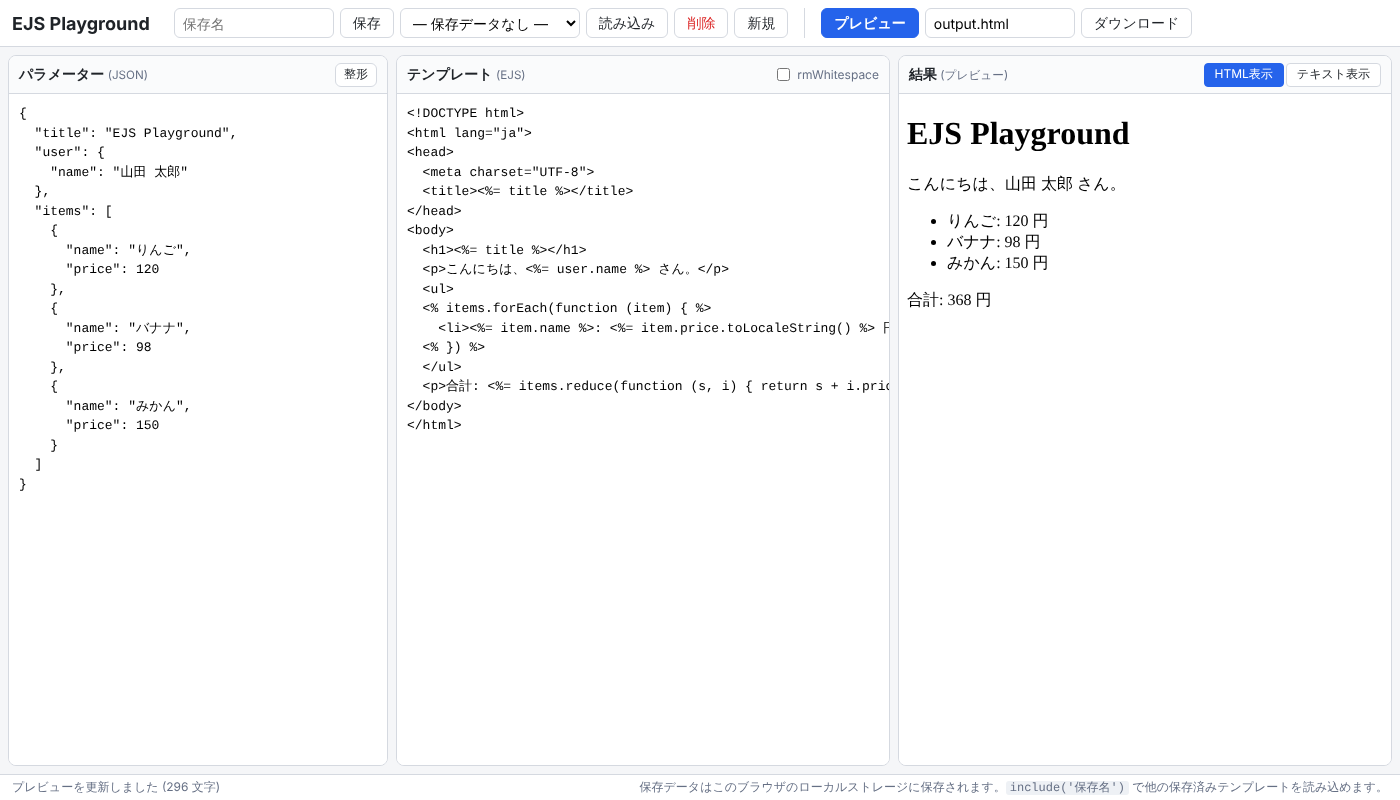
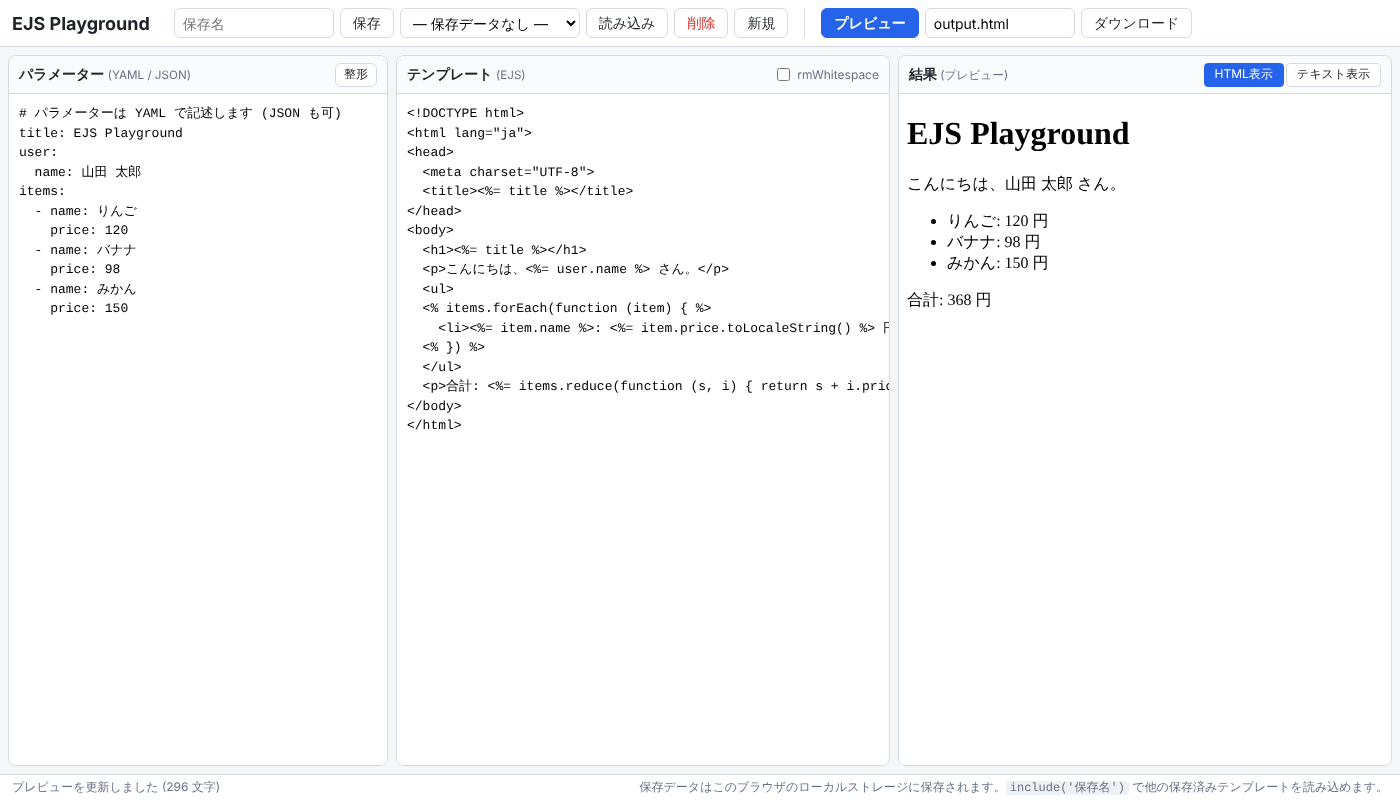
Accept parameters in YAML (JSON still supported)
Claude-Session: https://claude.ai/code/session_015nquHi3ZmVcq4QcpECdjmy

Changed region(s): [[0.0307, 0.125, 0.2457, 0.4375], [0.0307, 0.5, 0.1229, 0.5312]]

diff --git a/vendor/js-yaml.min.js b/vendor/js-yaml.min.js
@@ -1,0 +1,2 @@
+!function(e,t){"object"==typeof exports&&"undefined"!=typeof module?t(exports):"function"==typeof define&&define.amd?define(["exports"],t):t((e="undefined"!=typeof globalThis?globalThis:e||self).jsyaml={})}(this,function(e){"use strict";function t(e){return e&&e.__esModule&&Object.prototype.hasOwnProperty.call(e,"default")?e.default:e}var n,r,i,o,a,l,u,c,s,p,f,d,h,m,g,y,v,b,A,k,w,x,C,S,I,T,O,j,M,F,E,N,L,_,D,U,q,Y,K,R,H,P,B,W,$={},G={},Z={};function V(){if(n)return Z;function e(t){return(e="function"==typeof Symbol&&"symbol"==typeof Symbol.iterator?function(e){return typeof e}:function(e){return e&&"function"==typeof Symbol&&e.constructor===Symbol&&e!==Symbol.prototype?"symbol":typeof e})(t)}function t(e){return null==e}return n=1,Z.isNothing=t,Z.isObject=function(t){return"object"===e(t)&&null!==t},Z.toArray=function(e){return Array.isArray(e)?e:t(e)?[]:[e]},Z.repeat=function(e,t){for(var n="",r=0;r<t;r+=1)n+=e;return n},Z.isNegativeZero=function(e){return 0===e&&Number.NEGATIVE_INFINITY===1/e},Z.extend=function(e,t){if(t)for(var n=Object.keys(t),r=0,i=n.length;r<i;r+=1){var o=n[r];e[o]=t[o]}return e},Z}function J(){if(i)return r;function e(e,t){var n="",r=e.reason||"(unknown reason)";return e.mark?(e.mark.name&&(n+='in "'+e.mark.name+'" '),n+="("+(e.mark.line+1)+":"+(e.mark.column+1)+")",!t&&e.mark.snippet&&(n+="\n\n"+e.mark.snippet),r+" "+n):r}function t(t,n){Error.call(this),this.name="YAMLException",this.reason=t,this.mark=n,this.message=e(this,!1),Error.captureStackTrace?Error.captureStackTrace(this,this.constructor):this.stack=(new Error).stack||""}return i=1,t.prototype=Object.create(Error.prototype),t.prototype.constructor=t,t.prototype.toString=function(t){return this.name+": "+e(this,t)},r=t}function z(){if(u)return l;u=1;var e=J(),t=["kind","multi","resolve","construct","instanceOf","predicate","represent","representName","defaultStyle","styleAliases"],n=["scalar","sequence","mapping"];return l=function(r,i){var o,a;if(i=i||{},Object.keys(i).forEach(function(n){if(-1===t.indexOf(n))throw new e('Unknown option "'+n+'" is met in definition of "'+r+'" YAML type.')}),this.options=i,this.tag=r,this.kind=i.kind||null,this.resolve=i.resolve||function(){return!0},this.construct=i.construct||function(e){return e},this.instanceOf=i.instanceOf||null,this.predicate=i.predicate||null,this.represent=i.represent||null,this.representName=i.representName||null,this.defaultStyle=i.defaultStyle||null,this.multi=i.multi||!1,this.styleAliases=(o=i.styleAliases||null,a={},null!==o&&Object.keys(o).forEach(function(e){o[e].forEach(function(t){a[String(t)]=e})}),a),-1===n.indexOf(this.kind))throw new e('Unknown kind "'+this.kind+'" is specified for "'+r+'" YAML type.')}}function Q(){if(s)return c;s=1;var e=J(),t=z();function n(e,t){var n=[];return e[t].forEach(function(e){var t=n.length;n.forEach(function(n,r){n.tag===e.tag&&n.kind===e.kind&&n.multi===e.multi&&(t=r)}),n[t]=e}),n}function r(e){return this.extend(e)}return r.prototype.extend=function(i){var o=[],a=[];if(i instanceof t)a.push(i);else if(Array.isArray(i))a=a.concat(i);else{if(!i||!Array.isArray(i.implicit)&&!Array.isArray(i.explicit))throw new e("Schema.extend argument should be a Type, [ Type ], or a schema definition ({ implicit: [...], explicit: [...] })");i.implicit&&(o=o.concat(i.implicit)),i.explicit&&(a=a.concat(i.explicit))}o.forEach(function(n){if(!(n instanceof t))throw new e("Specified list of YAML types (or a single Type object) contains a non-Type object.");if(n.loadKind&&"scalar"!==n.loadKind)throw new e("There is a non-scalar type in the implicit list of a schema. Implicit resolving of such types is not supported.");if(n.multi)throw new e("There is a multi type in the implicit list of a schema. Multi tags can only be listed as explicit.")}),a.forEach(function(n){if(!(n instanceof t))throw new e("Specified list of YAML types (or a single Type object) contains a non-Type object.")});var l=Object.create(r.prototype);return l.implicit=(this.implicit||[]).concat(o),l.explicit=(this.explicit||[]).concat(a),l.compiledImplicit=n(l,"implicit"),l.compiledExplicit=n(l,"explicit"),l.compiledTypeMap=function(){var e={scalar:{},sequence:{},mapping:{},fallback:{},multi:{scalar:[],sequence:[],mapping:[],fallback:[]}};function t(t){t.multi?(e.multi[t.kind].push(t),e.multi.fallback.push(t)):e[t.kind][t.tag]=e.fallback[t.tag]=t}for(var n=0,r=arguments.length;n<r;n+=1)arguments[n].forEach(t);return e}(l.compiledImplicit,l.compiledExplicit),l},c=r}function X(){if(f)return p;f=1;var e=z();return p=new e("tag:yaml.org,2002:str",{kind:"scalar",construct:function(e){return null!==e?e:""}})}function ee(){if(h)return d;h=1;var e=z();return d=new e("tag:yaml.org,2002:seq",{kind:"sequence",construct:function(e){return null!==e?e:[]}})}function te(){if(g)return m;g=1;var e=z();return m=new e("tag:yaml.org,2002:map",{kind:"mapping",construct:function(e){return null!==e?e:{}}})}function ne(){if(v)return y;v=1;var e=Q();return y=new e({explicit:[X(),ee(),te()]})}function re(){if(A)return b;A=1;var e=z();return b=new e("tag:yaml.org,2002:null",{kind:"scalar",resolve:function(e){if(null===e)return!0;var t=e.length;return 1===t&&"~"===e||4===t&&("null"===e||"Null"===e||"NULL"===e)},construct:function(){return null},predicate:function(e){return null===e},represent:{canonical:function(){return"~"},lowercase:function(){return"null"},uppercase:function(){return"NULL"},camelcase:function(){return"Null"},empty:function(){return""}},defaultStyle:"lowercase"})}function ie(){if(w)return k;w=1;var e=z();return k=new e("tag:yaml.org,2002:bool",{kind:"scalar",resolve:function(e){if(null===e)return!1;var t=e.length;return 4===t&&("true"===e||"True"===e||"TRUE"===e)||5===t&&("false"===e||"False"===e||"FALSE"===e)},construct:function(e){return"true"===e||"True"===e||"TRUE"===e},predicate:function(e){return"[object Boolean]"===Object.prototype.toString.call(e)},represent:{lowercase:function(e){return e?"true":"false"},uppercase:function(e){return e?"TRUE":"FALSE"},camelcase:function(e){return e?"True":"False"}},defaultStyle:"lowercase"})}function oe(){if(C)return x;C=1;var e=V(),t=z();function n(e){return e>=48&&e<=57||e>=65&&e<=70||e>=97&&e<=102}function r(e){return e>=48&&e<=55}function i(e){return e>=48&&e<=57}function o(e){var t=e,n=1,r=t[0];if("-"!==r&&"+"!==r||("-"===r&&(n=-1),r=(t=t.slice(1))[0]),"0"===t)return 0;if("0"===r){if("b"===t[1])return n*parseInt(t.slice(2),2);if("x"===t[1])return n*parseInt(t.slice(2),16);if("o"===t[1])return n*parseInt(t.slice(2),8)}return n*parseInt(t,10)}return x=new t("tag:yaml.org,2002:int",{kind:"scalar",resolve:function(e){if(null===e)return!1;var t=e.length,a=0,l=!1;if(!t)return!1;var u=e[a];if("-"!==u&&"+"!==u||(u=e[++a]),"0"===u){if(a+1===t)return!0;if("b"===(u=e[++a])){for(a++;a<t;a++){if("0"!==(u=e[a])&&"1"!==u)return!1;l=!0}return l&&isFinite(o(e))}if("x"===u){for(a++;a<t;a++){if(!n(e.charCodeAt(a)))return!1;l=!0}return l&&isFinite(o(e))}if("o"===u){for(a++;a<t;a++){if(!r(e.charCodeAt(a)))return!1;l=!0}return l&&isFinite(o(e))}}for(;a<t;a++){if(!i(e.charCodeAt(a)))return!1;l=!0}return!!l&&isFinite(o(e))},construct:function(e){return o(e)},predicate:function(t){return"[object Number]"===Object.prototype.toString.call(t)&&t%1==0&&!e.isNegativeZero(t)},represent:{binary:function(e){return e>=0?"0b"+e.toString(2):"-0b"+e.toString(2).slice(1)},octal:function(e){return e>=0?"0o"+e.toString(8):"-0o"+e.toString(8).slice(1)},decimal:function(e){return e.toString(10)},hexadecimal:function(e){return e>=0?"0x"+e.toString(16).toUpperCase():"-0x"+e.toString(16).toUpperCase().slice(1)}},defaultStyle:"decimal",styleAliases:{binary:[2,"bin"],octal:[8,"oct"],decimal:[10,"dec"],hexadecimal:[16,"hex"]}})}function ae(){if(I)return S;I=1;var e=V(),t=z(),n=new RegExp("^(?:[-+]?(?:[0-9]+)(?:\\.[0-9]*)?(?:[eE][-+]?[0-9]+)?|\\.[0-9]+(?:[eE][-+]?[0-9]+)?|[-+]?\\.(?:inf|Inf|INF)|\\.(?:nan|NaN|NAN))$"),r=new RegExp("^(?:[-+]?\\.(?:inf|Inf|INF)|\\.(?:nan|NaN|NAN))$");var i=/^[-+]?[0-9]+e/;return S=new t("tag:yaml.org,2002:float",{kind:"scalar",resolve:function(e){return null!==e&&(!!n.test(e)&&(!!isFinite(parseFloat(e,10))||r.test(e)))},construct:function(e){var t=e.toLowerCase(),n="-"===t[0]?-1:1;return"+-".indexOf(t[0])>=0&&(t=t.slice(1)),".inf"===t?1===n?Number.POSITIVE_INFINITY:Number.NEGATIVE_INFINITY:".nan"===t?NaN:n*parseFloat(t,10)},predicate:function(t){return"[object Number]"===Object.prototype.toString.call(t)&&(t%1!=0||e.isNegativeZero(t))},represent:function(t,n){if(isNaN(t))switch(n){case"lowercase":return".nan";case"uppercase":return".NAN";case"camelcase":return".NaN"}else if(Number.POSITIVE_INFINITY===t)switch(n){case"lowercase":return".inf";case"uppercase":return".INF";case"camelcase":return".Inf"}else if(Number.NEGATIVE_INFINITY===t)switch(n){case"lowercase":return"-.inf";case"uppercase":return"-.INF";case"camelcase":return"-.Inf"}else if(e.isNegativeZero(t))return"-0.0";var r=t.toString(10);return i.test(r)?r.replace("e",".e"):r},defaultStyle:"lowercase"})}function le(){return O?T:(O=1,T=ne().extend({implicit:[re(),ie(),oe(),ae()]}))}function ue(){return M?j:(M=1,j=le())}function ce(){if(E)return F;E=1;var e=z(),t=new RegExp("^([0-9][0-9][0-9][0-9])-([0-9][0-9])-([0-9][0-9])$"),n=new RegExp("^([0-9][0-9][0-9][0-9])-([0-9][0-9]?)-([0-9][0-9]?)(?:[Tt]|[ \\t]+)([0-9][0-9]?):([0-9][0-9]):([0-9][0-9])(?:\\.([0-9]*))?(?:[ \\t]*(Z|([-+])([0-9][0-9]?)(?::([0-9][0-9]))?))?$");return F=new e("tag:yaml.org,2002:timestamp",{kind:"scalar",resolve:function(e){return null!==e&&(null!==t.exec(e)||null!==n.exec(e))},construct:function(e){var r=0,i=null,o=t.exec(e);if(null===o&&(o=n.exec(e)),null===o)throw new Error("Date resolve error");var a=+o[1],l=+o[2]-1,u=+o[3];if(!o[4])return new Date(Date.UTC(a,l,u));var c=+o[4],s=+o[5],p=+o[6];if(o[7]){for(r=o[7].slice(0,3);r.length<3;)r+="0";r=+r}o[9]&&(i=6e4*(60*+o[10]+ +(o[11]||0)),"-"===o[9]&&(i=-i));var f=new Date(Date.UTC(a,l,u,c,s,p,r));return i&&f.setTime(f.getTime()-i),f},instanceOf:Date,represent:function(e){return e.toISOString()}})}function se(){if(L)return N;L=1;var e=z();return N=new e("tag:yaml.org,2002:merge",{kind:"scalar",resolve:function(e){return"<<"===e||null===e}})}function pe(){if(D)return _;D=1;var e=z(),t="ABCDEFGHIJKLMNOPQRSTUVWXYZabcdefghijklmnopqrstuvwxyz0123456789+/=\n\r";return _=new e("tag:yaml.org,2002:binary",{kind:"scalar",resolve:function(e){if(null===e)return!1;for(var n=0,r=e.length,i=t,o=0;o<r;o++){var a=i.indexOf(e.charAt(o));if(!(a>64)){if(a<0)return!1;n+=6}}return n%8==0},construct:function(e){for(var n=e.replace(/[\r\n=]/g,""),r=n.length,i=t,o=0,a=[],l=0;l<r;l++)l%4==0&&l&&(a.push(o>>16&255),a.push(o>>8&255),a.push(255&o)),o=o<<6|i.indexOf(n.charAt(l));var u=r%4*6;return 0===u?(a.push(o>>16&255),a.push(o>>8&255),a.push(255&o)):18===u?(a.push(o>>10&255),a.push(o>>2&255)):12===u&&a.push(o>>4&255),new Uint8Array(a)},predicate:function(e){return"[object Uint8Array]"===Object.prototype.toString.call(e)},represent:function(e){for(var n="",r=0,i=e.length,o=t,a=0;a<i;a++)a%3==0&&a&&(n+=o[r>>18&63],n+=o[r>>12&63],n+=o[r>>6&63],n+=o[63&r]),r=(r<<8)+e[a];var l=i%3;return 0===l?(n+=o[r>>18&63],n+=o[r>>12&63],n+=o[r>>6&63],n+=o[63&r]):2===l?(n+=o[r>>10&63],n+=o[r>>4&63],n+=o[r<<2&63],n+=o[64]):1===l&&(n+=o[r>>2&63],n+=o[r<<4&63],n+=o[64],n+=o[64]),n}})}function fe(){if(q)return U;q=1;var e=z(),t=Object.prototype.hasOwnProperty,n=Object.prototype.toString;return U=new e("tag:yaml.org,2002:omap",{kind:"sequence",resolve:function(e){if(null===e)return!0;for(var r={},i=e,o=0,a=i.length;o<a;o+=1){var l=i[o],u=!1;if("[object Object]"!==n.call(l))return!1;var c=void 0;for(c in l)if(t.call(l,c)){if(u)return!1;u=!0}if(!u)return!1;if(t.call(r,c))return!1;Object.defineProperty(r,c,{value:!0})}return!0},construct:function(e){return null!==e?e:[]}})}function de(){if(K)return Y;K=1;var e=z(),t=Object.prototype.toString;return Y=new e("tag:yaml.org,2002:pairs",{kind:"sequence",resolve:function(e){if(null===e)return!0;for(var n=e,r=new Array(n.length),i=0,o=n.length;i<o;i+=1){var a=n[i];if("[object Object]"!==t.call(a))return!1;var l=Object.keys(a);if(1!==l.length)return!1;r[i]=[l[0],a[l[0]]]}return!0},construct:function(e){if(null===e)return[];for(var t=e,n=new Array(t.length),r=0,i=t.length;r<i;r+=1){var o=t[r],a=Object.keys(o);n[r]=[a[0],o[a[0]]]}return n}})}function he(){if(H)return R;H=1;var e=z(),t=Object.prototype.hasOwnProperty;return R=new e("tag:yaml.org,2002:set",{kind:"mapping",resolve:function(e){if(null===e)return!0;var n=e;for(var r in n)if(t.call(n,r)&&null!==n[r])return!1;return!0},construct:function(e){return null!==e?e:{}}})}function me(){return B?P:(B=1,P=ue().extend({implicit:[ce(),se()],explicit:[pe(),fe(),de(),he()]}))}function ge(){if(W)return G;function e(t){return(e="function"==typeof Symbol&&"symbol"==typeof Symbol.iterator?function(e){return typeof e}:function(e){return e&&"function"==typeof Symbol&&e.constructor===Symbol&&e!==Symbol.prototype?"symbol":typeof e})(t)}W=1;var t=V(),n=J(),r=function(){if(a)return o;a=1;var e=V();function t(e,t,n,r,i){var o="",a="",l=Math.floor(i/2)-1;return r-t>l&&(t=r-l+(o=" ... ").length),n-r>l&&(n=r+l-(a=" ...").length),{str:o+e.slice(t,n).replace(/\t/g,"→")+a,pos:r-t+o.length}}function n(t,n){return e.repeat(" ",n-t.length)+t}return o=function(r,i){if(i=Object.create(i||null),!r.buffer)return null;i.maxLength||(i.maxLength=79),"number"!=typeof i.indent&&(i.indent=1),"number"!=typeof i.linesBefore&&(i.linesBefore=3),"number"!=typeof i.linesAfter&&(i.linesAfter=2);for(var o,a=/\r?\n|\r|\0/g,l=[0],u=[],c=-1;o=a.exec(r.buffer);)u.push(o.index),l.push(o.index+o[0].length),r.position<=o.index&&c<0&&(c=l.length-2);c<0&&(c=l.length-1);for(var s="",p=Math.min(r.line+i.linesAfter,u.length).toString().length,f=i.maxLength-(i.indent+p+3),d=1;d<=i.linesBefore&&!(c-d<0);d++){var h=t(r.buffer,l[c-d],u[c-d],r.position-(l[c]-l[c-d]),f);s=e.repeat(" ",i.indent)+n((r.line-d+1).toString(),p)+" | "+h.str+"\n"+s}var m=t(r.buffer,l[c],u[c],r.position,f);s+=e.repeat(" ",i.indent)+n((r.line+1).toString(),p)+" | "+m.str+"\n",s+=e.repeat("-",i.indent+p+3+m.pos)+"^\n";for(var g=1;g<=i.linesAfter&&!(c+g>=u.length);g++){var y=t(r.buffer,l[c+g],u[c+g],r.position-(l[c]-l[c+g]),f);s+=e.repeat(" ",i.indent)+n((r.line+g+1).toString(),p)+" | "+y.str+"\n"}return s.replace(/\n$/,"")}}(),i=me(),l=Object.prototype.hasOwnProperty,u=/[\x00-\x08\x0B\x0C\x0E-\x1F\x7F-\x84\x86-\x9F\uFFFE\uFFFF]|[\uD800-\uDBFF](?![\uDC00-\uDFFF])|(?:[^\uD800-\uDBFF]|^)[\uDC00-\uDFFF]/,c=/[\x85\u2028\u2029]/,s=/[,\[\]{}]/,p=/^(?:!|!!|![0-9A-Za-z-]+!)$/,f=/^(?:!|[^,\[\]{}])(?:%[0-9a-f]{2}|[0-9a-z\-#;/?:@&=+$,_.!~*'()\[\]])*$/i;function d(e){return Object.prototype.toString.call(e)}function h(e){return 10===e||13===e}function m(e){return 9===e||32===e}function g(e){return 9===e||32===e||10===e||13===e}function y(e){return 44===e||91===e||93===e||123===e||125===e}function v(e){if(e>=48&&e<=57)return e-48;var t=32|e;return t>=97&&t<=102?t-97+10:-1}function b(e){return 120===e?2:117===e?4:85===e?8:0}function A(e){return e>=48&&e<=57?e-48:-1}function k(e){switch(e){case 48:return"\0";case 97:return"";case 98:return"\b";case 116:case 9:return"\t";case 110:return"\n";case 118:return"\v";case 102:return"\f";case 114:return"\r";case 101:return"";case 32:return" ";case 34:return'"';case 47:return"/";case 92:return"\\";case 78:return"";case 95:return" ";case 76:return"\u2028";case 80:return"\u2029";default:return""}}function w(e){return e<=65535?String.fromCharCode(e):String.fromCharCode(55296+(e-65536>>10),56320+(e-65536&1023))}function x(e,t,n){"__proto__"===t?Object.defineProperty(e,t,{configurable:!0,enumerable:!0,writable:!0,value:n}):e[t]=n}for(var C=new Array(256),S=new Array(256),I=0;I<256;I++)C[I]=k(I)?1:0,S[I]=k(I);function T(e,t){this.input=e,this.filename=t.filename||null,this.schema=t.schema||i,this.onWarning=t.onWarning||null,this.legacy=t.legacy||!1,this.json=t.json||!1,this.listener=t.listener||null,this.maxDepth="number"==typeof t.maxDepth?t.maxDepth:100,this.maxTotalMergeKeys="number"==typeof t.maxTotalMergeKeys?t.maxTotalMergeKeys:1e4,this.implicitTypes=this.schema.compiledImplicit,this.typeMap=this.schema.compiledTypeMap,this.length=e.length,this.position=0,this.line=0,this.lineStart=0,this.lineIndent=0,this.depth=0,this.totalMergeKeys=0,this.firstTabInLine=-1,this.documents=[],this.anchorMapTransactions=[]}function O(e,t){var i={name:e.filename,buffer:e.input.slice(0,-1),position:e.position,line:e.line,column:e.position-e.lineStart};return i.snippet=r(i),new n(t,i)}function j(e,t){throw O(e,t)}function M(e,t){e.onWarning&&e.onWarning.call(null,O(e,t))}function F(e,t,n){var r=e.anchorMapTransactions;if(0!==r.length){var i=r[r.length-1];l.call(i,t)||(i[t]={existed:l.call(e.anchorMap,t),value:e.anchorMap[t]})}e.anchorMap[t]=n}function E(e){return{position:e.position,line:e.line,lineStart:e.lineStart,lineIndent:e.lineIndent,firstTabInLine:e.firstTabInLine,tag:e.tag,anchor:e.anchor,kind:e.kind,result:e.result}}function N(e,t){e.position=t.position,e.line=t.line,e.lineStart=t.lineStart,e.lineIndent=t.lineIndent,e.firstTabInLine=t.firstTabInLine,e.tag=t.tag,e.anchor=t.anchor,e.kind=t.kind,e.result=t.result}var L={YAML:function(e,t,n){null!==e.version&&j(e,"duplication of %YAML directive"),1!==n.length&&j(e,"YAML directive accepts exactly one argument");var r=/^([0-9]+)\.([0-9]+)$/.exec(n[0]);null===r&&j(e,"ill-formed argument of the YAML directive");var i=parseInt(r[1],10),o=parseInt(r[2],10);1!==i&&j(e,"unacceptable YAML version of the document"),e.version=n[0],e.checkLineBreaks=o<2,1!==o&&2!==o&&M(e,"unsupported YAML version of the document")},TAG:function(e,t,n){var r;2!==n.length&&j(e,"TAG directive accepts exactly two arguments");var i=n[0];r=n[1],p.test(i)||j(e,"ill-formed tag handle (first argument) of the TAG directive"),l.call(e.tagMap,i)&&j(e,'there is a previously declared suffix for "'+i+'" tag handle'),f.test(r)||j(e,"ill-formed tag prefix (second argument) of the TAG directive");try{r=decodeURIComponent(r)}catch(t){j(e,"tag prefix is malformed: "+r)}e.tagMap[i]=r}};function _(e,t,n,r){if(t<n){var i=e.input.slice(t,n);if(r)for(var o=0,a=i.length;o<a;o+=1){var l=i.charCodeAt(o);9===l||l>=32&&l<=1114111||j(e,"expected valid JSON character")}else u.test(i)&&j(e,"the stream contains non-printable characters");e.result+=i}}function D(e){e.totalMergeKeys++,-1!==e.maxTotalMergeKeys&&e.totalMergeKeys>e.maxTotalMergeKeys&&j(e,"merge keys exceeded maxTotalMergeKeys ("+e.maxTotalMergeKeys+")")}function U(e,n,r,i){t.isObject(r)||j(e,"cannot merge mappings; the provided source object is unacceptable"),D(e);for(var o=Object.keys(r),a=0,u=o.length;a<u;a+=1){var c=o[a];D(e),l.call(n,c)||(x(n,c,r[c]),i[c]=!0)}}function q(t,n,r,i,o,a,u,c,s){if(Array.isArray(o))for(var p=0,f=(o=Array.prototype.slice.call(o)).length;p<f;p+=1)Array.isArray(o[p])&&j(t,"nested arrays are not supported inside keys"),"object"===e(o)&&"[object Object]"===d(o[p])&&(o[p]="[object Object]");if("object"===e(o)&&"[object Object]"===d(o)&&(o="[object Object]"),o=String(o),null===n&&(n={}),"tag:yaml.org,2002:merge"===i)if(Array.isArray(a)){a.length>100&&j(t,"abnormal merge sequence size");for(var h=0,m=a.length;h<m;h+=1)U(t,n,a[h],r)}else U(t,n,a,r);else t.json||l.call(r,o)||!l.call(n,o)||(t.line=u||t.line,t.lineStart=c||t.lineStart,t.position=s||t.position,j(t,"duplicated mapping key")),x(n,o,a),delete r[o];return n}function Y(e){var t=e.input.charCodeAt(e.position);10===t?e.position++:13===t?(e.position++,10===e.input.charCodeAt(e.position)&&e.position++):j(e,"a line break is expected"),e.line+=1,e.lineStart=e.position,e.firstTabInLine=-1}function K(e,t,n){for(var r=0,i=e.input.charCodeAt(e.position);0!==i;){for(;m(i);)9===i&&-1===e.firstTabInLine&&(e.firstTabInLine=e.position),i=e.input.charCodeAt(++e.position);if(t&&35===i)do{i=e.input.charCodeAt(++e.position)}while(10!==i&&13!==i&&0!==i);if(!h(i))break;for(Y(e),i=e.input.charCodeAt(e.position),r++,e.lineIndent=0;32===i;)e.lineIndent++,i=e.input.charCodeAt(++e.position)}return-1!==n&&0!==r&&e.lineIndent<n&&M(e,"deficient indentation"),r}function R(e){var t=e.position,n=e.input.charCodeAt(t);return!(45!==n&&46!==n||n!==e.input.charCodeAt(t+1)||n!==e.input.charCodeAt(t+2)||(t+=3,0!==(n=e.input.charCodeAt(t))&&!g(n)))}function H(e,n){1===n?e.result+=" ":n>1&&(e.result+=t.repeat("\n",n-1))}function P(e,t){var n=e.tag,r=e.anchor,i=[],o=!1;if(-1!==e.firstTabInLine)return!1;null!==e.anchor&&F(e,e.anchor,i);for(var a=e.input.charCodeAt(e.position);0!==a&&(-1!==e.firstTabInLine&&(e.position=e.firstTabInLine,j(e,"tab characters must not be used in indentation")),45===a);){if(!g(e.input.charCodeAt(e.position+1)))break;if(o=!0,e.position++,K(e,!0,-1)&&e.lineIndent<=t)i.push(null),a=e.input.charCodeAt(e.position);else{var l=e.line;if(Q(e,t,3,!1,!0),i.push(e.result),K(e,!0,-1),a=e.input.charCodeAt(e.position),(e.line===l||e.lineIndent>t)&&0!==a)j(e,"bad indentation of a sequence entry");else if(e.lineIndent<t)break}}return!!o&&(e.tag=n,e.anchor=r,e.kind="sequence",e.result=i,!0)}function B(e,t,n){var r,i,o,a,l=e.tag,u=e.anchor,c={},s=Object.create(null),p=null,f=null,d=null,h=!1,y=!1;if(-1!==e.firstTabInLine)return!1;null!==e.anchor&&F(e,e.anchor,c);for(var v=e.input.charCodeAt(e.position);0!==v;){h||-1===e.firstTabInLine||(e.position=e.firstTabInLine,j(e,"tab characters must not be used in indentation"));var b=e.input.charCodeAt(e.position+1),A=e.line;if(63!==v&&58!==v||!g(b)){if(i=e.line,o=e.lineStart,a=e.position,!Q(e,n,2,!1,!0))break;if(e.line===A){for(v=e.input.charCodeAt(e.position);m(v);)v=e.input.charCodeAt(++e.position);if(58===v)g(v=e.input.charCodeAt(++e.position))||j(e,"a whitespace character is expected after the key-value separator within a block mapping"),h&&(q(e,c,s,p,f,null,i,o,a),p=f=d=null),y=!0,h=!1,r=!1,p=e.tag,f=e.result;else{if(!y)return e.tag=l,e.anchor=u,!0;j(e,"can not read an implicit mapping pair; a colon is missed")}}else{if(!y)return e.tag=l,e.anchor=u,!0;j(e,"can not read a block mapping entry; a multiline key may not be an implicit key")}}else 63===v?(h&&(q(e,c,s,p,f,null,i,o,a),p=f=d=null),y=!0,h=!0,r=!0):h?(h=!1,r=!0):j(e,"incomplete explicit mapping pair; a key node is missed; or followed by a non-tabulated empty line"),e.position+=1,v=b;if((e.line===A||e.lineIndent>t)&&(h&&(i=e.line,o=e.lineStart,a=e.position),Q(e,t,4,!0,r)&&(h?f=e.result:d=e.result),h||(q(e,c,s,p,f,d,i,o,a),p=f=d=null),K(e,!0,-1),v=e.input.charCodeAt(e.position)),(e.line===A||e.lineIndent>t)&&0!==v)j(e,"bad indentation of a mapping entry");else if(e.lineIndent<t)break}return h&&q(e,c,s,p,f,null,i,o,a),y&&(e.tag=l,e.anchor=u,e.kind="mapping",e.result=c),y}function $(e){var t,n,r=!1,i=!1,o=e.input.charCodeAt(e.position);if(33!==o)return!1;null!==e.tag&&j(e,"duplication of a tag property"),60===(o=e.input.charCodeAt(++e.position))?(r=!0,o=e.input.charCodeAt(++e.position)):33===o?(i=!0,t="!!",o=e.input.charCodeAt(++e.position)):t="!";var a=e.position;if(r){do{o=e.input.charCodeAt(++e.position)}while(0!==o&&62!==o);e.position<e.length?(n=e.input.slice(a,e.position),o=e.input.charCodeAt(++e.position)):j(e,"unexpected end of the stream within a verbatim tag")}else{for(;0!==o&&!g(o);)33===o&&(i?j(e,"tag suffix cannot contain exclamation marks"):(t=e.input.slice(a-1,e.position+1),p.test(t)||j(e,"named tag handle cannot contain such characters"),i=!0,a=e.position+1)),o=e.input.charCodeAt(++e.position);n=e.input.slice(a,e.position),s.test(n)&&j(e,"tag suffix cannot contain flow indicator characters")}n&&!f.test(n)&&j(e,"tag name cannot contain such characters: "+n);try{n=decodeURIComponent(n)}catch(t){j(e,"tag name is malformed: "+n)}return r?e.tag=n:l.call(e.tagMap,t)?e.tag=e.tagMap[t]+n:"!"===t?e.tag="!"+n:"!!"===t?e.tag="tag:yaml.org,2002:"+n:j(e,'undeclared tag handle "'+t+'"'),!0}function Z(e){var t=e.input.charCodeAt(e.position);if(38!==t)return!1;null!==e.anchor&&j(e,"duplication of an anchor property"),t=e.input.charCodeAt(++e.position);for(var n=e.position;0!==t&&!g(t)&&!y(t);)t=e.input.charCodeAt(++e.position);return e.position===n&&j(e,"name of an anchor node must contain at least one character"),e.anchor=e.input.slice(n,e.position),!0}function z(e,t,n,r){var i=E(e);return function(e){e.anchorMapTransactions.push(Object.create(null))}(e),N(e,t),e.tag=null,e.anchor=null,e.kind=null,e.result=null,B(e,n,r)&&"mapping"===e.kind?(function(e){var t=e.anchorMapTransactions.pop(),n=e.anchorMapTransactions;if(0!==n.length)for(var r=n[n.length-1],i=Object.keys(t),o=0,a=i.length;o<a;o+=1){var u=i[o];l.call(r,u)||(r[u]=t[u])}}(e),!0):(function(e){for(var t=e.anchorMapTransactions.pop(),n=Object.keys(t),r=n.length-1;r>=0;r-=1){var i=t[n[r]];i.existed?e.anchorMap[n[r]]=i.value:delete e.anchorMap[n[r]]}}(e),N(e,i),!1)}function Q(e,n,r,i,o){var a,u,c,s,p,f=1,d=!1,k=!1,x=null;e.depth>=e.maxDepth&&j(e,"nesting exceeded maxDepth ("+e.maxDepth+")"),e.depth+=1,null!==e.listener&&e.listener("open",e),e.tag=null,e.anchor=null,e.kind=null,e.result=null;var I=a=u=4===r||3===r;if(i&&K(e,!0,-1)&&(d=!0,e.lineIndent>n?f=1:e.lineIndent===n?f=0:e.lineIndent<n&&(f=-1)),1===f)for(;;){var T=e.input.charCodeAt(e.position),O=E(e);if(d&&(33===T&&null!==e.tag||38===T&&null!==e.anchor))break;if(!$(e)&&!Z(e))break;null===x&&(x=O),K(e,!0,-1)?(d=!0,u=I,e.lineIndent>n?f=1:e.lineIndent===n?f=0:e.lineIndent<n&&(f=-1)):u=!1}if(u&&(u=d||o),1===f||4===r)if(s=1===r||2===r?n:n+1,p=e.position-e.lineStart,1===f)if(u&&(P(e,p)||B(e,p,s))||function(e,t){var n,r,i,o,a,l,u,c,s,p,f,d=!0,h=e.tag,m=e.anchor,y=Object.create(null),v=e.input.charCodeAt(e.position);if(91===v)a=93,c=!1,o=[];else{if(123!==v)return!1;a=125,c=!0,o={}}for(null!==e.anchor&&F(e,e.anchor,o),v=e.input.charCodeAt(++e.position);0!==v;){if(K(e,!0,t),(v=e.input.charCodeAt(e.position))===a)return e.position++,e.tag=h,e.anchor=m,e.kind=c?"mapping":"sequence",e.result=o,!0;d?44===v&&j(e,"expected the node content, but found ','"):j(e,"missed comma between flow collection entries"),f=null,l=u=!1,63===v&&g(e.input.charCodeAt(e.position+1))&&(l=u=!0,e.position++,K(e,!0,t)),n=e.line,r=e.lineStart,i=e.position,Q(e,t,1,!1,!0),p=e.tag,s=e.result,K(e,!0,t),v=e.input.charCodeAt(e.position),!u&&e.line!==n||58!==v||(l=!0,v=e.input.charCodeAt(++e.position),K(e,!0,t),Q(e,t,1,!1,!0),f=e.result),c?q(e,o,y,p,s,f,n,r,i):l?o.push(q(e,null,y,p,s,f,n,r,i)):o.push(s),K(e,!0,t),44===(v=e.input.charCodeAt(e.position))?(d=!0,v=e.input.charCodeAt(++e.position)):d=!1}j(e,"unexpected end of the stream within a flow collection")}(e,s))k=!0;else{var M=e.input.charCodeAt(e.position);null!==x&&I&&!u&&124!==M&&62!==M&&z(e,x,x.position-x.lineStart,s)||a&&function(e,n){var r,i,o=1,a=!1,l=!1,u=n,c=0,s=!1,p=e.input.charCodeAt(e.position);if(124===p)r=!1;else{if(62!==p)return!1;r=!0}for(e.kind="scalar",e.result="";0!==p;)if(43===(p=e.input.charCodeAt(++e.position))||45===p)1===o?o=43===p?3:2:j(e,"repeat of a chomping mode identifier");else{if(!((i=A(p))>=0))break;0===i?j(e,"bad explicit indentation width of a block scalar; it cannot be less than one"):l?j(e,"repeat of an indentation width identifier"):(u=n+i-1,l=!0)}if(m(p)){do{p=e.input.charCodeAt(++e.position)}while(m(p));if(35===p)do{p=e.input.charCodeAt(++e.position)}while(!h(p)&&0!==p)}for(;0!==p;){for(Y(e),e.lineIndent=0,p=e.input.charCodeAt(e.position);(!l||e.lineIndent<u)&&32===p;)e.lineIndent++,p=e.input.charCodeAt(++e.position);if(!l&&e.lineIndent>u&&(u=e.lineIndent),h(p))c++;else{if(l||0!==u||j(e,"missing indentation for block scalar"),e.lineIndent<u){3===o?e.result+=t.repeat("\n",a?1+c:c):1===o&&a&&(e.result+="\n");break}r?m(p)?(s=!0,e.result+=t.repeat("\n",a?1+c:c)):s?(s=!1,e.result+=t.repeat("\n",c+1)):0===c?a&&(e.result+=" "):e.result+=t.repeat("\n",c):e.result+=t.repeat("\n",a?1+c:c),a=!0,l=!0,c=0;for(var f=e.position;!h(p)&&0!==p;)p=e.input.charCodeAt(++e.position);_(e,f,e.position,!1)}}return!0}(e,s)||function(e,t){var n,r,i=e.input.charCodeAt(e.position);if(39!==i)return!1;for(e.kind="scalar",e.result="",e.position++,n=r=e.position;0!==(i=e.input.charCodeAt(e.position));)if(39===i){if(_(e,n,e.position,!0),39!==(i=e.input.charCodeAt(++e.position)))return!0;n=e.position,e.position++,r=e.position}else h(i)?(_(e,n,r,!0),H(e,K(e,!1,t)),n=r=e.position):e.position===e.lineStart&&R(e)?j(e,"unexpected end of the document within a single quoted scalar"):(e.position++,m(i)||(r=e.position));j(e,"unexpected end of the stream within a single quoted scalar")}(e,s)||function(e,t){var n,r,i,o=e.input.charCodeAt(e.position);if(34!==o)return!1;for(e.kind="scalar",e.result="",e.position++,n=r=e.position;0!==(o=e.input.charCodeAt(e.position));){if(34===o)return _(e,n,e.position,!0),e.position++,!0;if(92===o){if(_(e,n,e.position,!0),h(o=e.input.charCodeAt(++e.position)))K(e,!1,t);else if(o<256&&C[o])e.result+=S[o],e.position++;else if((i=b(o))>0){for(var a=i,l=0;a>0;a--)(i=v(o=e.input.charCodeAt(++e.position)))>=0?l=(l<<4)+i:j(e,"expected hexadecimal character");e.result+=w(l),e.position++}else j(e,"unknown escape sequence");n=r=e.position}else h(o)?(_(e,n,r,!0),H(e,K(e,!1,t)),n=r=e.position):e.position===e.lineStart&&R(e)?j(e,"unexpected end of the document within a double quoted scalar"):(e.position++,m(o)||(r=e.position))}j(e,"unexpected end of the stream within a double quoted scalar")}(e,s)?k=!0:!function(e){var t=e.input.charCodeAt(e.position);if(42!==t)return!1;t=e.input.charCodeAt(++e.position);for(var n=e.position;0!==t&&!g(t)&&!y(t);)t=e.input.charCodeAt(++e.position);e.position===n&&j(e,"name of an alias node must contain at least one character");var r=e.input.slice(n,e.position);return l.call(e.anchorMap,r)||j(e,'unidentified alias "'+r+'"'),e.result=e.anchorMap[r],K(e,!0,-1),!0}(e)?function(e,t,n){var r,i,o,a,l,u,c=e.kind,s=e.result,p=e.input.charCodeAt(e.position);if(g(p)||y(p)||35===p||38===p||42===p||33===p||124===p||62===p||39===p||34===p||37===p||64===p||96===p)return!1;if(63===p||45===p){var f=e.input.charCodeAt(e.position+1);if(g(f)||n&&y(f))return!1}for(e.kind="scalar",e.result="",r=i=e.position,o=!1;0!==p;){if(58===p){var d=e.input.charCodeAt(e.position+1);if(g(d)||n&&y(d))break}else if(35===p){if(g(e.input.charCodeAt(e.position-1)))break}else{if(e.position===e.lineStart&&R(e)||n&&y(p))break;if(h(p)){if(a=e.line,l=e.lineStart,u=e.lineIndent,K(e,!1,-1),e.lineIndent>=t){o=!0,p=e.input.charCodeAt(e.position);continue}e.position=i,e.line=a,e.lineStart=l,e.lineIndent=u;break}}o&&(_(e,r,i,!1),H(e,e.line-a),r=i=e.position,o=!1),m(p)||(i=e.position+1),p=e.input.charCodeAt(++e.position)}return _(e,r,i,!1),!!e.result||(e.kind=c,e.result=s,!1)}(e,s,1===r)&&(k=!0,null===e.tag&&(e.tag="?")):(k=!0,null===e.tag&&null===e.anchor||j(e,"alias node should not have any properties")),null!==e.anchor&&F(e,e.anchor,e.result)}else 0===f&&(k=u&&P(e,p));if(null===e.tag)null!==e.anchor&&F(e,e.anchor,e.result);else if("?"===e.tag){null!==e.result&&"scalar"!==e.kind&&j(e,'unacceptable node kind for !<?> tag; it should be "scalar", not "'+e.kind+'"');for(var N=0,L=e.implicitTypes.length;N<L;N+=1)if((c=e.implicitTypes[N]).resolve(e.result)){e.result=c.construct(e.result),e.tag=c.tag,null!==e.anchor&&F(e,e.anchor,e.result);break}}else if("!"!==e.tag){if(l.call(e.typeMap[e.kind||"fallback"],e.tag))c=e.typeMap[e.kind||"fallback"][e.tag];else{c=null;for(var D=e.typeMap.multi[e.kind||"fallback"],U=0,W=D.length;U<W;U+=1)if(e.tag.slice(0,D[U].tag.length)===D[U].tag){c=D[U];break}}c||j(e,"unknown tag !<"+e.tag+">"),null!==e.result&&c.kind!==e.kind&&j(e,"unacceptable node kind for !<"+e.tag+'> tag; it should be "'+c.kind+'", not "'+e.kind+'"'),c.resolve(e.result,e.tag)?(e.result=c.construct(e.result,e.tag),null!==e.anchor&&F(e,e.anchor,e.result)):j(e,"cannot resolve a node with !<"+e.tag+"> explicit tag")}return null!==e.listener&&e.listener("close",e),e.depth-=1,null!==e.tag||null!==e.anchor||k}function X(e){var t,n=e.position,r=!1;for(e.version=null,e.checkLineBreaks=e.legacy,e.tagMap=Object.create(null),e.anchorMap=Object.create(null);0!==(t=e.input.charCodeAt(e.position))&&(K(e,!0,-1),t=e.input.charCodeAt(e.position),!(e.lineIndent>0||37!==t));){r=!0,t=e.input.charCodeAt(++e.position);for(var i=e.position;0!==t&&!g(t);)t=e.input.charCodeAt(++e.position);var o=e.input.slice(i,e.position),a=[];for(o.length<1&&j(e,"directive name must not be less than one character in length");0!==t;){for(;m(t);)t=e.input.charCodeAt(++e.position);if(35===t){do{t=e.input.charCodeAt(++e.position)}while(0!==t&&!h(t));break}if(h(t))break;for(i=e.position;0!==t&&!g(t);)t=e.input.charCodeAt(++e.position);a.push(e.input.slice(i,e.position))}0!==t&&Y(e),l.call(L,o)?L[o](e,o,a):M(e,'unknown document directive "'+o+'"')}K(e,!0,-1),0===e.lineIndent&&45===e.input.charCodeAt(e.position)&&45===e.input.charCodeAt(e.position+1)&&45===e.input.charCodeAt(e.position+2)?(e.position+=3,K(e,!0,-1)):r&&j(e,"directives end mark is expected"),Q(e,e.lineIndent-1,4,!1,!0),K(e,!0,-1),e.checkLineBreaks&&c.test(e.input.slice(n,e.position))&&M(e,"non-ASCII line breaks are interpreted as content"),e.documents.push(e.result),e.position===e.lineStart&&R(e)?46===e.input.charCodeAt(e.position)&&(e.position+=3,K(e,!0,-1)):e.position<e.length-1&&j(e,"end of the stream or a document separator is expected")}function ee(e,t){t=t||{},0!==(e=String(e)).length&&(10!==e.charCodeAt(e.length-1)&&13!==e.charCodeAt(e.length-1)&&(e+="\n"),65279===e.charCodeAt(0)&&(e=e.slice(1)));var n=new T(e,t),r=e.indexOf("\0");for(-1!==r&&(n.position=r,j(n,"null byte is not allowed in input")),n.input+="\0";32===n.input.charCodeAt(n.position);)n.lineIndent+=1,n.position+=1;for(;n.position<n.length-1;)X(n);return n.documents}return G.loadAll=function(t,n,r){null!==n&&"object"===e(n)&&void 0===r&&(r=n,n=null);var i=ee(t,r);if("function"!=typeof n)return i;for(var o=0,a=i.length;o<a;o+=1)n(i[o])},G.load=function(e,t){var r=ee(e,t);if(0!==r.length){if(1===r.length)return r[0];throw new n("expected a single document in the stream, but found more")}},G}var ye,ve,be={};function Ae(){if(ye)return be;function e(t){return(e="function"==typeof Symbol&&"symbol"==typeof Symbol.iterator?function(e){return typeof e}:function(e){return e&&"function"==typeof Symbol&&e.constructor===Symbol&&e!==Symbol.prototype?"symbol":typeof e})(t)}ye=1;var t=V(),n=J(),r=me(),i=Object.prototype.toString,o=Object.prototype.hasOwnProperty,a=65279,l={0:"\\0",7:"\\a",8:"\\b",9:"\\t",10:"\\n",11:"\\v",12:"\\f",13:"\\r",27:"\\e",34:'\\"',92:"\\\\",133:"\\N",160:"\\_",8232:"\\L",8233:"\\P"},u=["y","Y","yes","Yes","YES","on","On","ON","n","N","no","No","NO","off","Off","OFF"],c=/^[-+]?[0-9_]+(?::[0-9_]+)+(?:\.[0-9_]*)?$/;function s(e){var r,i,o=e.toString(16).toUpperCase();if(e<=255)r="x",i=2;else if(e<=65535)r="u",i=4;else{if(!(e<=4294967295))throw new n("code point within a string may not be greater than 0xFFFFFFFF");r="U",i=8}return"\\"+r+t.repeat("0",i-o.length)+o}function p(e){this.schema=e.schema||r,this.indent=Math.max(1,e.indent||2),this.noArrayIndent=e.noArrayIndent||!1,this.skipInvalid=e.skipInvalid||!1,this.flowLevel=t.isNothing(e.flowLevel)?-1:e.flowLevel,this.styleMap=function(e,t){if(null===t)return{};for(var n={},r=Object.keys(t),i=0,a=r.length;i<a;i+=1){var l=r[i],u=String(t[l]);"!!"===l.slice(0,2)&&(l="tag:yaml.org,2002:"+l.slice(2));var c=e.compiledTypeMap.fallback[l];c&&o.call(c.styleAliases,u)&&(u=c.styleAliases[u]),n[l]=u}return n}(this.schema,e.styles||null),this.sortKeys=e.sortKeys||!1,this.lineWidth=e.lineWidth||80,this.noRefs=e.noRefs||!1,this.noCompatMode=e.noCompatMode||!1,this.condenseFlow=e.condenseFlow||!1,this.quotingType='"'===e.quotingType?2:1,this.forceQuotes=e.forceQuotes||!1,this.replacer="function"==typeof e.replacer?e.replacer:null,this.implicitTypes=this.schema.compiledImplicit,this.explicitTypes=this.schema.compiledExplicit,this.tag=null,this.result="",this.duplicates=[],this.usedDuplicates=null}function f(e,n){for(var r=t.repeat(" ",n),i=0,o="",a=e.length;i<a;){var l=void 0,u=e.indexOf("\n",i);-1===u?(l=e.slice(i),i=a):(l=e.slice(i,u+1),i=u+1),l.length&&"\n"!==l&&(o+=r),o+=l}return o}function d(e,n){return"\n"+t.repeat(" ",e.indent*n)}function h(e){return 32===e||9===e}function m(e){return e>=32&&e<=126||e>=161&&e<=55295&&8232!==e&&8233!==e||e>=57344&&e<=65533&&e!==a||e>=65536&&e<=1114111}function g(e){return m(e)&&e!==a&&13!==e&&10!==e}function y(e,t,n){var r=g(e),i=r&&!h(e);return(n?r:r&&44!==e&&91!==e&&93!==e&&123!==e&&125!==e)&&35!==e&&!(58===t&&!i)||g(t)&&!h(t)&&35===e||58===t&&i}function v(e,t){var n,r=e.charCodeAt(t);return r>=55296&&r<=56319&&t+1<e.length&&(n=e.charCodeAt(t+1))>=56320&&n<=57343?1024*(r-55296)+n-56320+65536:r}function b(e){return/^\n* /.test(e)}function A(e,t,n,r,i,o,l,u){var c,s,p=0,f=null,d=!1,g=!1,A=-1!==r,k=-1,w=m(s=v(e,0))&&s!==a&&!h(s)&&45!==s&&63!==s&&58!==s&&44!==s&&91!==s&&93!==s&&123!==s&&125!==s&&35!==s&&38!==s&&42!==s&&33!==s&&124!==s&&61!==s&&62!==s&&39!==s&&34!==s&&37!==s&&64!==s&&96!==s&&function(e){return!h(e)&&58!==e}(v(e,e.length-1));if(t||l)for(c=0;c<e.length;p>=65536?c+=2:c++){if(!m(p=v(e,c)))return 5;w=w&&y(p,f,u),f=p}else{for(c=0;c<e.length;p>=65536?c+=2:c++){if(10===(p=v(e,c)))d=!0,A&&(g=g||c-k-1>r&&" "!==e[k+1],k=c);else if(!m(p))return 5;w=w&&y(p,f,u),f=p}g=g||A&&c-k-1>r&&" "!==e[k+1]}return d||g?n>9&&b(e)?5:l?2===o?5:2:g?4:3:!w||l||i(e)?2===o?5:2:1}function k(e,t,r,i,o){e.dump=function(){if(0===t.length)return 2===e.quotingType?'""':"''";if(!e.noCompatMode&&(-1!==u.indexOf(t)||c.test(t)))return 2===e.quotingType?'"'+t+'"':"'"+t+"'";var a=e.indent*Math.max(1,r),p=-1===e.lineWidth?-1:Math.max(Math.min(e.lineWidth,40),e.lineWidth-a),d=i||e.flowLevel>-1&&r>=e.flowLevel;switch(A(t,d,e.indent,p,function(t){return function(e,t){for(var n=0,r=e.implicitTypes.length;n<r;n+=1)if(e.implicitTypes[n].resolve(t))return!0;return!1}(e,t)},e.quotingType,e.forceQuotes&&!i,o)){case 1:return t;case 2:return"'"+t.replace(/'/g,"''")+"'";case 3:return"|"+w(t,e.indent)+x(f(t,a));case 4:return">"+w(t,e.indent)+x(f(function(e,t){var n,r,i=/(\n+)([^\n]*)/g,o=(l=e.indexOf("\n"),l=-1!==l?l:e.length,i.lastIndex=l,C(e.slice(0,l),t)),a="\n"===e[0]||" "===e[0];var l;for(;r=i.exec(e);){var u=r[1],c=r[2];n=" "===c[0],o+=u+(a||n||""===c?"":"\n")+C(c,t),a=n}return o}(t,p),a));case 5:return'"'+function(e){for(var t="",n=0,r=0;r<e.length;n>=65536?r+=2:r++){n=v(e,r);var i=l[n];!i&&m(n)?(t+=e[r],n>=65536&&(t+=e[r+1])):t+=i||s(n)}return t}(t)+'"';default:throw new n("impossible error: invalid scalar style")}}()}function w(e,t){var n=b(e)?String(t):"",r="\n"===e[e.length-1];return n+(r&&("\n"===e[e.length-2]||"\n"===e)?"+":r?"":"-")+"\n"}function x(e){return"\n"===e[e.length-1]?e.slice(0,-1):e}function C(e,t){if(""===e||" "===e[0])return e;for(var n,r,i=/ [^ ]/g,o=0,a=0,l=0,u="";n=i.exec(e);)(l=n.index)-o>t&&(r=a>o?a:l,u+="\n"+e.slice(o,r),o=r+1),a=l;return u+="\n",e.length-o>t&&a>o?u+=e.slice(o,a)+"\n"+e.slice(a+1):u+=e.slice(o),u.slice(1)}function S(e,t,n,r){for(var i="",o=e.tag,a=0,l=n.length;a<l;a+=1){var u=n[a];e.replacer&&(u=e.replacer.call(n,String(a),u)),(T(e,t+1,u,!0,!0,!1,!0)||void 0===u&&T(e,t+1,null,!0,!0,!1,!0))&&(r&&""===i||(i+=d(e,t)),e.dump&&10===e.dump.charCodeAt(0)?i+="-":i+="- ",i+=e.dump)}e.tag=o,e.dump=i||"[]"}function I(t,r,a){for(var l=a?t.explicitTypes:t.implicitTypes,u=0,c=l.length;u<c;u+=1){var s=l[u];if((s.instanceOf||s.predicate)&&(!s.instanceOf||"object"===e(r)&&r instanceof s.instanceOf)&&(!s.predicate||s.predicate(r))){if(a?s.multi&&s.representName?t.tag=s.representName(r):t.tag=s.tag:t.tag="?",s.represent){var p=t.styleMap[s.tag]||s.defaultStyle,f=void 0;if("[object Function]"===i.call(s.represent))f=s.represent(r,p);else{if(!o.call(s.represent,p))throw new n("!<"+s.tag+'> tag resolver accepts not "'+p+'" style');f=s.represent[p](r,p)}t.dump=f}return!0}}return!1}function T(e,t,r,o,a,l,u){e.tag=null,e.dump=r,I(e,r,!1)||I(e,r,!0);var c=i.call(e.dump),s=o;o&&(o=e.flowLevel<0||e.flowLevel>t);var p,f,h="[object Object]"===c||"[object Array]"===c;if(h&&(f=-1!==(p=e.duplicates.indexOf(r))),(null!==e.tag&&"?"!==e.tag||f||2!==e.indent&&t>0)&&(a=!1),f&&e.usedDuplicates[p])e.dump="*ref_"+p;else{if(h&&f&&!e.usedDuplicates[p]&&(e.usedDuplicates[p]=!0),"[object Object]"===c)o&&0!==Object.keys(e.dump).length?(!function(e,t,r,i){var o="",a=e.tag,l=Object.keys(r);if(!0===e.sortKeys)l.sort();else if("function"==typeof e.sortKeys)l.sort(e.sortKeys);else if(e.sortKeys)throw new n("sortKeys must be a boolean or a function");for(var u=0,c=l.length;u<c;u+=1){var s="";i&&""===o||(s+=d(e,t));var p=l[u],f=r[p];if(e.replacer&&(f=e.replacer.call(r,p,f)),T(e,t+1,p,!0,!0,!0)){var h=null!==e.tag&&"?"!==e.tag||e.dump&&e.dump.length>1024;h&&(e.dump&&10===e.dump.charCodeAt(0)?s+="?":s+="? "),s+=e.dump,h&&(s+=d(e,t)),T(e,t+1,f,!0,h)&&(e.dump&&10===e.dump.charCodeAt(0)?s+=":":s+=": ",o+=s+=e.dump)}}e.tag=a,e.dump=o||"{}"}(e,t,e.dump,a),f&&(e.dump="&ref_"+p+e.dump)):(!function(e,t,n){for(var r="",i=e.tag,o=Object.keys(n),a=0,l=o.length;a<l;a+=1){var u="";""!==r&&(u+=", "),e.condenseFlow&&(u+='"');var c=o[a],s=n[c];e.replacer&&(s=e.replacer.call(n,c,s)),T(e,t,c,!1,!1)&&(e.dump.length>1024&&(u+="? "),u+=e.dump+(e.condenseFlow?'"':"")+":"+(e.condenseFlow?"":" "),T(e,t,s,!1,!1)&&(r+=u+=e.dump))}e.tag=i,e.dump="{"+r+"}"}(e,t,e.dump),f&&(e.dump="&ref_"+p+" "+e.dump));else if("[object Array]"===c)o&&0!==e.dump.length?(e.noArrayIndent&&!u&&t>0?S(e,t-1,e.dump,a):S(e,t,e.dump,a),f&&(e.dump="&ref_"+p+e.dump)):(!function(e,t,n){for(var r="",i=e.tag,o=0,a=n.length;o<a;o+=1){var l=n[o];e.replacer&&(l=e.replacer.call(n,String(o),l)),(T(e,t,l,!1,!1)||void 0===l&&T(e,t,null,!1,!1))&&(""!==r&&(r+=","+(e.condenseFlow?"":" ")),r+=e.dump)}e.tag=i,e.dump="["+r+"]"}(e,t,e.dump),f&&(e.dump="&ref_"+p+" "+e.dump));else{if("[object String]"!==c){if("[object Undefined]"===c)return!1;if(e.skipInvalid)return!1;throw new n("unacceptable kind of an object to dump "+c)}"?"!==e.tag&&k(e,e.dump,t,l,s)}if(null!==e.tag&&"?"!==e.tag){var m=encodeURI("!"===e.tag[0]?e.tag.slice(1):e.tag).replace(/!/g,"%21");m="!"===e.tag[0]?"!"+m:"tag:yaml.org,2002:"===m.slice(0,18)?"!!"+m.slice(18):"!<"+m+">",e.dump=m+" "+e.dump}}return!0}function O(e,t){var n=[],r=[];j(e,n,r);for(var i=r.length,o=0;o<i;o+=1)t.duplicates.push(n[r[o]]);t.usedDuplicates=new Array(i)}function j(t,n,r){if(null!==t&&"object"===e(t)){var i=n.indexOf(t);if(-1!==i)-1===r.indexOf(i)&&r.push(i);else if(n.push(t),Array.isArray(t))for(var o=0,a=t.length;o<a;o+=1)j(t[o],n,r);else for(var l=Object.keys(t),u=0,c=l.length;u<c;u+=1)j(t[l[u]],n,r)}}return be.dump=function(e,t){var n=new p(t=t||{});n.noRefs||O(e,n);var r=e;return n.replacer&&(r=n.replacer.call({"":r},"",r)),T(n,0,r,!0,!0)?n.dump+"\n":""},be}var ke=t(function(){if(ve)return $;ve=1;var e=ge(),t=Ae();function n(e,t){return function(){throw new Error("Function yaml."+e+" is removed in js-yaml 4. Use yaml."+t+" instead, which is now safe by default.")}}return $.Type=z(),$.Schema=Q(),$.FAILSAFE_SCHEMA=ne(),$.JSON_SCHEMA=le(),$.CORE_SCHEMA=ue(),$.DEFAULT_SCHEMA=me(),$.load=e.load,$.loadAll=e.loadAll,$.dump=t.dump,$.YAMLException=J(),$.types={binary:pe(),float:ae(),map:te(),null:re(),pairs:de(),set:he(),timestamp:ce(),bool:ie(),int:oe(),merge:se(),omap:fe(),seq:ee(),str:X()},$.safeLoad=n("safeLoad","load"),$.safeLoadAll=n("safeLoadAll","loadAll"),$.safeDump=n("safeDump","dump"),$}()),we=ke.Type,xe=ke.Schema,Ce=ke.FAILSAFE_SCHEMA,Se=ke.JSON_SCHEMA,Ie=ke.CORE_SCHEMA,Te=ke.DEFAULT_SCHEMA,Oe=ke.load,je=ke.loadAll,Me=ke.dump,Fe=ke.YAMLException,Ee=ke.types,Ne=ke.safeLoad,Le=ke.safeLoadAll,_e=ke.safeDump;e.CORE_SCHEMA=Ie,e.DEFAULT_SCHEMA=Te,e.FAILSAFE_SCHEMA=Ce,e.JSON_SCHEMA=Se,e.Schema=xe,e.Type=we,e.YAMLException=Fe,e.default=ke,e.dump=Me,e.load=Oe,e.loadAll=je,e.safeDump=_e,e.safeLoad=Ne,e.safeLoadAll=Le,e.types=Ee,Object.defineProperty(e,"__esModule",{value:!0})});
+//# sourceMappingURL=js-yaml.min.js.map

diff --git a/app.js b/app.js
@@ -4,15 +4,20 @@
   var STORAGE_KEY = 'ejs-playground:saves';   // 名前付き保存データ
   var DRAFT_KEY = 'ejs-playground:draft';     // 編集中の内容 (自動保存)
 
-  var DEFAULT_PARAMS = JSON.stringify({
-    title: 'EJS Playground',
-    user: { name: '山田 太郎' },
-    items: [
-      { name: 'りんご', price: 120 },
-      { name: 'バナナ', price: 98 },
-      { name: 'みかん', price: 150 }
-    ]
-  }, null, 2);
+  var DEFAULT_PARAMS = [
+    '# パラメーターは YAML で記述します (JSON も可)',
+    'title: EJS Playground',
+    'user:',
+    '  name: 山田 太郎',
+    'items:',
+    '  - name: りんご',
+    '    price: 120',
+    '  - name: バナナ',
+    '    price: 98',
+    '  - name: みかん',
+    '    price: 150',
+    ''
+  ].join('\n');
 
   var DEFAULT_TEMPLATE = [
     '<!DOCTYPE html>',
@@ -140,16 +145,17 @@
 
   // ---------- rendering ----------
   function parseParams() {
-    var src = paramsEl.value.trim();
-    if (!src) return {};
+    var src = paramsEl.value;
+    if (!src.trim()) return {};
     var data;
     try {
-      data = JSON.parse(src);
+      data = jsyaml.load(src);
     } catch (e) {
-      throw new Error('パラメーターのJSONが不正です:\n' + e.message);
+      throw new Error('パラメーターのYAMLが不正です:\n' + e.message);
     }
-    if (data === null || typeof data !== 'object' || Array.isArray(data)) {
-      throw new Error('パラメーターはJSONオブジェクト ({ ... }) で指定してください。');
+    if (data == null) return {}; // コメントのみ等
+    if (typeof data !== 'object' || Array.isArray(data)) {
+      throw new Error('パラメーターはキーと値の形式 (例: "title: Hello") で指定してください。');
     }
     return data;
   }
@@ -282,7 +288,7 @@
 
   function newDoc() {
     if (!confirm('パラメーターとテンプレートをクリアしますか？\n(保存済みデータは削除されません)')) return;
-    applyState({ params: '{\n  \n}', template: '', fileName: 'output.html', rmWhitespace: false });
+    applyState({ params: '', template: '', fileName: 'output.html', rmWhitespace: false });
     saveNameEl.value = '';
     savedListEl.value = '';
     lastOutput = '';
@@ -295,7 +301,7 @@
   function formatParams() {
     try {
       var data = parseParams();
-      paramsEl.value = JSON.stringify(data, null, 2);
+      paramsEl.value = jsyaml.dump(data, { indent: 2, lineWidth: -1 });
       clearError();
       saveDraftSoon();
     } catch (e) {

diff --git a/index.html b/index.html
@@ -32,8 +32,8 @@
   <main class="panes">
     <section class="pane" id="pane-params">
       <div class="pane-head">
-        <h2>パラメーター <small>(JSON)</small></h2>
-        <button id="btn-format" type="button" class="small" title="JSONを整形">整形</button>
+        <h2>パラメーター <small>(YAML / JSON)</small></h2>
+        <button id="btn-format" type="button" class="small" title="YAMLとして整形">整形</button>
       </div>
       <textarea id="params" spellcheck="false" aria-label="パラメーター入力"></textarea>
     </section>
@@ -66,6 +66,7 @@
   </footer>
 
   <script src="vendor/ejs.min.js"></script>
+  <script src="vendor/js-yaml.min.js"></script>
   <script src="app.js"></script>
 </body>
 </html>

diff --git a/README.md b/README.md
@@ -6,7 +6,7 @@
 
 ## 機能
 
-- **パラメーター入力** (JSON) / **テンプレート入力** (EJS) / **結果出力** の3ペイン構成
+- **パラメーター入力** (YAML。JSONも可) / **テンプレート入力** (EJS) / **結果出力** の3ペイン構成
 - 「プレビュー」(Ctrl/⌘+Enter) で変換結果を表示 (HTML表示 / テキスト表示 を切替)
 - 「ダウンロード」で変換結果をファイル保存 (ファイル名は任意、拡張子からMIMEタイプを判定)
 - パラメーターとテンプレートを **名前をつけて複数保存** (ローカルストレージ)
@@ -21,6 +21,7 @@ index.html        画面
 style.css         スタイル
 app.js            アプリ本体
 vendor/ejs.min.js EJS 3.1.10 ブラウザ版 (Apache-2.0, vendor/EJS-LICENSE)
+vendor/js-yaml.min.js js-yaml 4.3.2 (MIT, vendor/JS-YAML-LICENSE)
 .nojekyll         GitHub Pages の Jekyll 処理を無効化
 ```
 
